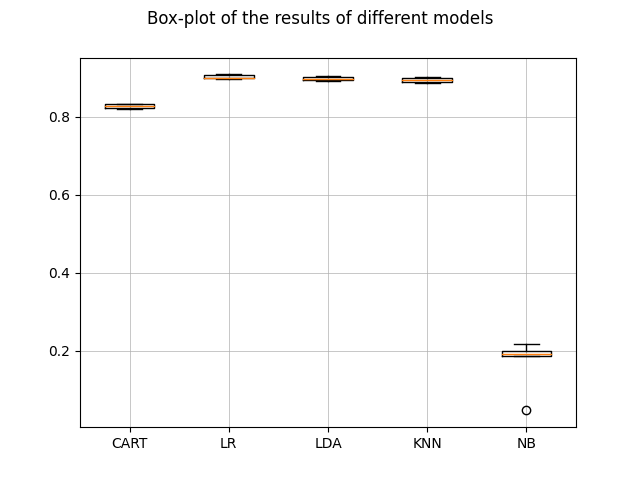
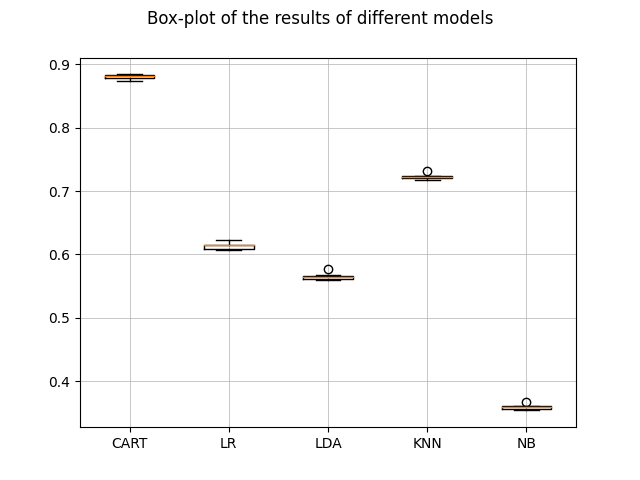
Generate new data with distribution and change all dependent files

diff --git a/preprocess_data/generate_data.py b/preprocess_data/generate_data.py
@@ -1,0 +1,101 @@
+import pandas as pd
+import numpy as np
+from random import choices
+from tqdm import tqdm
+import warnings
+
+warnings.filterwarnings("ignore")
+
+
+def get_numerical_distribution(df, key_feature, key_feature_val, feature_to_distr, n_bins):
+    distr = []
+
+    df_selected = df[df[key_feature] == key_feature_val][feature_to_distr]
+    df_closed_len = len(df_selected)
+
+    # get quantiles of 5 and 95 percents to derobust the data
+    low, high = df_selected.quantile(.05), df_selected.quantile(.95)
+    lspace = np.linspace(low, high, n_bins)
+
+    prev = 0
+    for ran in lspace:
+        curr_choice = df_selected[(prev < df_selected) & (df_selected <= ran)]
+        distr.append(len(curr_choice) / df_closed_len)
+        prev = ran
+
+    return distr, lspace
+
+
+def get_categorical_distribution(df, key_feature, key_feature_val, feature_to_distr):
+    df_selected = df[df[key_feature] == key_feature_val][feature_to_distr]
+
+    if isinstance(df_selected.values[0], str):
+        freq = df_selected.values
+        most_freq = pd.Series(freq).value_counts() / len(df_selected)
+        return most_freq.values, most_freq.index.values
+
+    elif isinstance(df_selected.values[0], list):
+        freq = []
+        for i in df_selected.values:
+            for j in i:
+                freq.append(j)
+        most_freq = pd.Series(freq).value_counts() / len(df_selected)
+        return most_freq.values, most_freq.index.values
+
+
+if __name__ == '__main__':
+    df = pd.read_csv('../main_dataset.csv')
+
+    # Splitting our category_list column by '|' and save this list to column
+    df.category_list = df.category_list.str.split('|')
+
+    df.drop(['name', 'company_index'], axis=1, inplace=True)
+
+    columns = ['category_list', 'funding_total_usd', 'funding_rounds', 'founded_at']
+
+
+    def generate_data(df, n, status):
+        cols = df.columns.values
+        new_df = pd.DataFrame(columns=cols)
+        cache_distr = {}
+        weights_region, rang_region = get_categorical_distribution(df, 'status', status, 'region')
+
+        for i in tqdm(range(n)):
+            temp_region = choices(rang_region, weights_region)[0]
+            temp_data = {'category_list': '', 'funding_total_usd': 0, 'status': status, 'region': temp_region,
+                         'funding_rounds': 0, 'founded_at': ''}
+            for column in columns:
+                if f'{temp_region}_{column}' not in cache_distr:
+                    if isinstance(temp_data[column], str):
+                        weights_column, rang_column = get_categorical_distribution(df[df.region == temp_region],
+                                                                                   'status', status, column)
+                        temp_data[column] = choices(rang_column, weights_column)[0]
+
+                    elif isinstance(temp_data[column], int) or isinstance(temp_data[column], float):
+                        weights_column, rang_column = get_numerical_distribution(df[df.region == temp_region],
+                                                                                 'status', status, column, 100)
+                        temp_data[column] = int(choices(rang_column, weights_column)[0])
+
+                    cache_distr[f'{temp_region}_{column}'] = [weights_column, rang_column]
+                else:
+                    weights_column, rang_column = cache_distr[f'{temp_region}_{column}'][0], \
+                                                  cache_distr[f'{temp_region}_{column}'][1]
+                    if isinstance(temp_data[column], str):
+                        temp_data[column] = choices(rang_column, weights_column)[0]
+                    elif isinstance(temp_data[column], int) or isinstance(temp_data[column], float):
+                        temp_data[column] = int(choices(rang_column, weights_column)[0])
+            new_df = new_df.append(temp_data, ignore_index=True)
+
+        return new_df
+
+
+    new_status_closed, new_status_ipo = generate_data(df, 30000, 0), generate_data(df, 30000, 2)
+    new_status_closed.category_list = ['|'.join([i]) for i in new_status_closed.category_list.values]
+    new_status_ipo.category_list = ['|'.join([i]) for i in new_status_ipo.category_list.values]
+
+    df.category_list = ['|'.join(i) for i in df.category_list.values]
+
+    df = df.append(new_status_closed, ignore_index=True)
+    df = df.append(new_status_ipo, ignore_index=True)
+    shuffled_df = df.sample(frac=1)
+    shuffled_df.to_csv('../extended_main_dataset.csv', index=False)

diff --git a/create_model/predict_input.py b/create_model/predict_input.py
@@ -11,52 +11,42 @@ TRAIN_TEST_PATH = env.str("TRAIN_TEST_PATH")
 MODELS_PATH = env.str("MODELS_PATH")
 PREPROCESSED_DATASET = env.str("PREPROCESSED_DATASET")
 
-columns = list(pd.read_csv(PREPROCESSED_DATASET).columns.values)
-columns.remove('status')
+funding_total_usd_scaler = pickle.load(open(MODELS_PATH + 'funding_total_usd_scaler.pkl', 'rb'))
+funding_rounds_scaler = pickle.load(open(MODELS_PATH + 'funding_rounds_scaler.pkl', 'rb'))
+founded_at_scaler = pickle.load(open(MODELS_PATH + 'founded_at_scaler.pkl', 'rb'))
+
+columns = ['funding_total_usd', 'funding_rounds', 'founded_at', 'region_Africa', 'region_Asia', 'region_Europe',
+           'region_North America', 'region_Oceania', 'region_South America', 'category_list_0', 'category_list_1',
+           'category_list_2', 'category_list_3']
+
+# with open(MODELS_PATH + 'startup_success.json', 'r') as json_file:
+#     loaded_model_json = json_file.read()
+#     model = model_from_json(loaded_model_json)
+# # load weights into new model
+# model.load_weights(MODELS_PATH + "startup_success.h5")
+model = pickle.load(open(MODELS_PATH + 'CART.sav', 'rb'))[0]
 
 
-def input_data():
-    funding_total_usd_scaler = pickle.load(open(MODELS_PATH + 'funding_total_usd_scaler.pkl', 'rb'))
-    funding_rounds_scaler = pickle.load(open(MODELS_PATH + 'funding_rounds_scaler.pkl', 'rb'))
-    founded_at_scaler = pickle.load(open(MODELS_PATH + 'founded_at_scaler.pkl', 'rb'))
+def predict_output(data):
+    input_data = np.zeros(len(columns))
 
-    output_data = np.zeros(len(columns))
+    region = data[0]
+    input_data[3 + region] = 1
 
-    # input the index of the region
-    region_ind = int(input(
-        "Input number with your region: \n1. Africa\n2. Asia\n3. Europe\n4. North America\n5. Oceania\n6. South America"))
-    output_data[3 + region_ind] = 1
+    funding = funding_total_usd_scaler.transform([[float(data[1]) * 1e6]])[0][0]
+    input_data[0] = funding
 
-    funding = float(input('Input expected size of funding (in millions): ')) * 1e6
-    funding = funding_total_usd_scaler.transform([[funding]])[0][0]
-    print(funding)
+    funding_rounds = funding_rounds_scaler.transform([[int(data[2])]])[0][0]
+    input_data[1] = funding_rounds
 
-    funding_rounds = int(input('Input expected size of funding rounds: '))
-    funding_rounds = funding_rounds_scaler.transform([[funding_rounds]])[0][0]
-    print(funding_rounds)
+    date_foundation = founded_at_scaler.transform([[pd.to_datetime(data[3], format='%Y-%m-%d', errors='coerce')
+                                                  .value]])[0][0]
+    input_data[2] = date_foundation
 
-    output_data[0] = funding
-    output_data[1] = funding_rounds
+    input_data[9] = 1
 
-    date_foundation = input('Input date of foundation of the company (in format Y-m-d): ')
-    date_foundation = founded_at_scaler.transform([[pd.to_datetime(date_foundation, format='%Y-%m-%d', errors='coerce')\
-                                                    .value]])[0][0]
-    print(date_foundation)
-    output_data[2] = date_foundation
-
-    category = input('Input the category of the company: ')
-    output_data[10] = 1
-
-    return output_data.reshape(1, -1)
+    # return [round((i * 100), 2) for i in model.predict(input_data.reshape(1, -1))[0]]
+    return model.predict_proba(input_data.reshape(1, -1))[0].argmax()
 
 
-with open(MODELS_PATH + 'startup_success.json', 'r') as json_file:
-    loaded_model_json = json_file.read()
-    model = model_from_json(loaded_model_json)
-# load weights into new model
-model.load_weights(MODELS_PATH + "startup_success.h5")
-
-input_data = input_data()
-
-prediction = model.predict(input_data)
-print(prediction[0])
+print(predict_output([1, '4', '2', '2004-08-07']))

diff --git a/user_interface/main_interface.py b/user_interface/main_interface.py
@@ -1,19 +1,22 @@
 from tkinter import *
+import create_model.predict_input as predict
 
 root = Tk()
 
 root.columnconfigure(0, weight=1)
 root.columnconfigure(1, weight=3)
 
-
-def callback(selection):
-    print(selection)
-
+input_data = []
 
 OPTIONS = ["Africa", "Asia", "Europe", "North America", "Oceania", "South America"]
 
+
+def select(selection):
+    input_data.append(OPTIONS.index(selection))
+
+
 variable = StringVar(root)
-variable.set(OPTIONS[0])
+variable.set('-')
 
 label1 = Label(root, text='Input expected size of funding (in millions): ').grid(row=0, pady=10, padx=5)
 label2 = Label(root, text='Input expected size of funding rounds: ').grid(row=1, pady=10, padx=5)
@@ -29,15 +32,26 @@ entry3 = Entry(root, width=50)
 entry3.grid(row=2, column=1, pady=10, padx=10, sticky=E)
 entry4 = Entry(root, width=50)
 entry4.grid(row=3, column=1, pady=10, padx=10, sticky=E)
-entry5 = OptionMenu(root, variable, *OPTIONS, command=callback)
-entry5.grid(row=4, column=1, pady=10, padx=10, sticky=W)
+choose1 = OptionMenu(root, variable, *OPTIONS, command=select)
+choose1.grid(row=4, column=1, pady=10, padx=10, sticky=W)
 
 
 def click():
-    print(entry1.get())
-    print(entry2.get())
-    print(entry3.get())
-    print(entry4.get())
+    input_data.append(entry1.get())
+    input_data.append(entry2.get())
+    input_data.append(entry3.get())
+    input_data.append(entry4.get())
+    prediction = predict.predict_output(input_data)
+    new_root = Tk()
+    title = Label(new_root, text='Most likely you company will').grid(row=0, pady=10, padx=5)
+    if prediction == 0:
+        string = 'be closed'
+    elif prediction == 1:
+        string = 'be operating or will be sold'
+    else:
+        string = 'go to IPO'
+    label8 = Label(new_root, text=string).grid(row=1, pady=10, padx=5)
+    new_root.mainloop()
 
 
 button1 = Button(root, text='Process data', command=click).grid(sticky=SE, row=5, column=1, pady=10, padx=10)

diff --git a/preprocess_data/normalize_data.py b/preprocess_data/normalize_data.py
@@ -10,6 +10,7 @@ env.read_env()
 TRAIN_TEST_PATH = env.str("TRAIN_TEST_PATH")
 MAIN_DATASET_PATH = env.str("MAIN_DATASET_PATH")
 MODELS_PATH = env.str("MODELS_PATH")
+EXT_MAIN_DATASET_PATH = env.str("EXT_MAIN_DATASET_PATH")
 
 
 def normalize(df, by_col):
@@ -22,9 +23,8 @@ def normalize(df, by_col):
     return df
 
 
-df = pd.read_csv(MAIN_DATASET_PATH)
+df = pd.read_csv(EXT_MAIN_DATASET_PATH)
 
-# Splitting our category_list column by '|' and save this list to column
 df.category_list = df.category_list.str.split('|')
 
 # get most frequent categories in dataframe and calculate it's quartiles
@@ -49,8 +49,6 @@ for index, row in df.iterrows():
     except:
         new_val = 0
     df.loc[index, "category_list"] = new_val
-
-df.drop(['name', 'company_index'], axis=1, inplace=True)
 
 # Converting date to numeric type
 df.founded_at = pd.to_datetime(df.founded_at, format='%Y-%m-%d', errors='coerce').view('int64')
